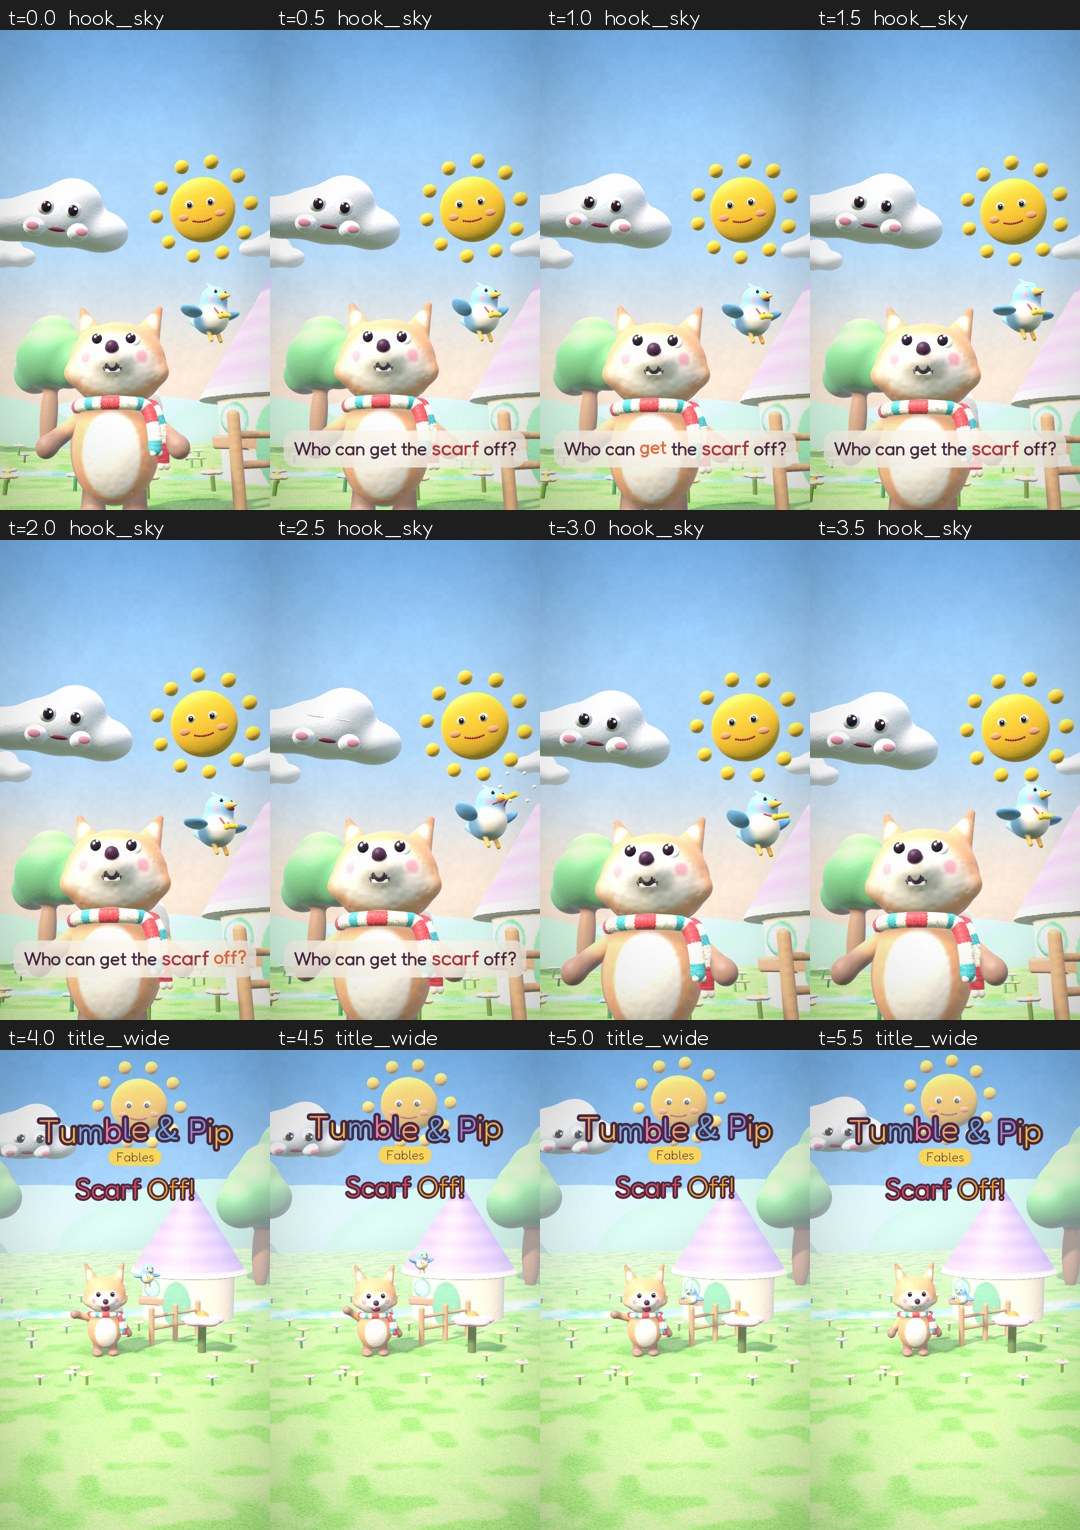
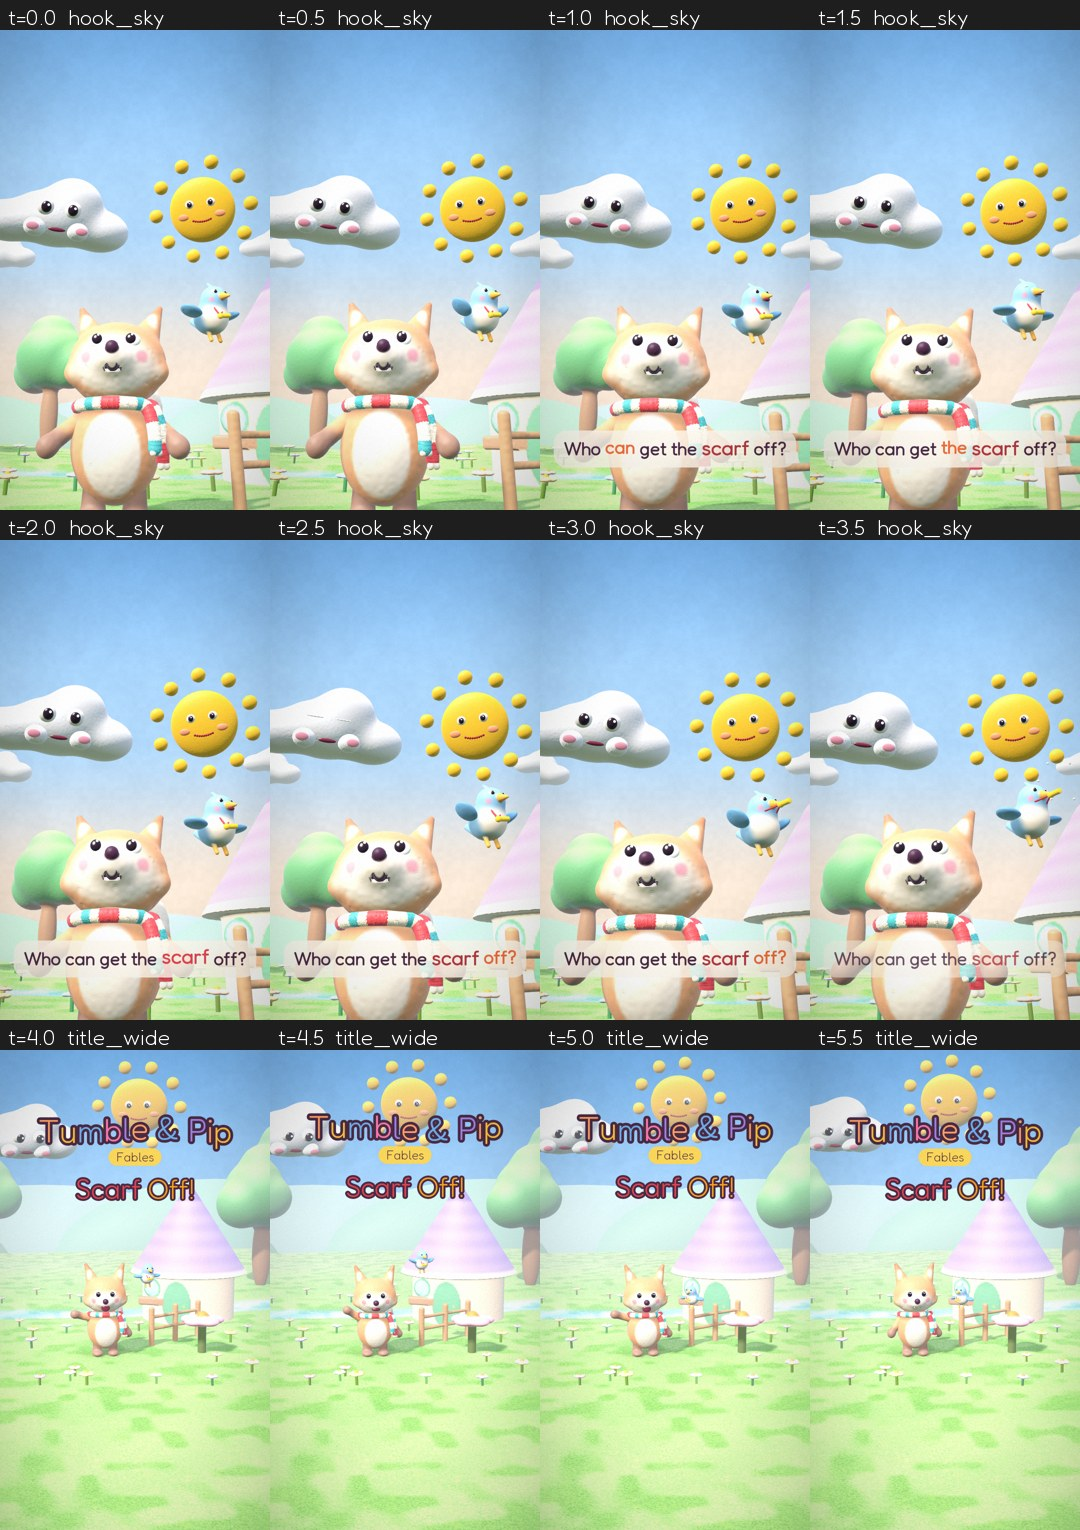
Fable 7: real song timing, Pip insert shot split, sheets for the final review pass
Claude-Session: https://claude.ai/code/session_019tHcGyer8d4WdTM5CTWrTN

diff --git a/batches/01-fables-friendship/fable-07-scarf-off/code/render.py b/batches/01-fables-friendship/fable-07-scarf-off/code/render.py
@@ -478,11 +478,11 @@ def camera(t):
     if name == "snug":
         return fit_cam(np.array([0.05, 1.4, 0]), lerp(-8, -4, e), 4, 0.95, 1.15)
     if name == "wind_puff":
-        return fit_cam(WIND_P + np.array([0, 0.05, 0]), lerp(16, 20, e), -3, lerp(1.6, 1.35, e), lerp(1.5, 1.25, e), fov=34, lift=0.0 if not WIDE else 0.18)
+        return fit_cam(WIND_P + np.array([0, 0.05, 0]), lerp(16, 20, e), -3, lerp(1.6, 1.35, e), lerp(1.5, 1.25, e), fov=34, lift=0.0 if not WIDE else 0.26)
     if name == "hold_tight":                                  # low three-quarter on Tumble holding on
         return fit_cam(np.array([0.45, 1.2, 0.0]), -18, -4, 1.5, 1.35)
     if name == "pip_blown":                                   # insert: Pip is blown from the post onto the flower
-        return fit_cam(np.array([2.0, 1.0, 0.3]), -8, 4, 1.75, 1.6, lift=-0.08 if not WIDE else 0.1)
+        return fit_cam(np.array([2.15, 1.0, 0.3]), -8, 4, 1.75, 1.6, lift=-0.08 if not WIDE else 0.1)
     if name == "spin":                                        # high angle wide
         return fit_cam(np.array([0.6, 0.9, 0.1]), 8, 42, 2.0, 1.7)
     if name == "pip_cling":

diff --git a/batches/01-fables-friendship/fable-07-scarf-off/code/timeline.py b/batches/01-fables-friendship/fable-07-scarf-off/code/timeline.py
@@ -113,8 +113,9 @@ BLOW0 = (word_times("huff", "Problem A") or [_pa[0] + 0.3])[0] - 0.1   # Wind st
 _tight = word_times("tight", "Problem A")
 BLOWN = min((_tight[0] if _tight else _pa[0] + 2.6) + 0.85, _pa[1] - 0.95)  # Pip blown off the post
 CLING = BLOWN + 0.6
-SHOTS[6] = (PA_SPLIT, BLOWN - 0.1, "hold_tight")                 # cut to an insert of Pip's flight as the gust hits
-SHOTS.insert(7, (BLOWN - 0.1, _pa[1], "pip_blown"))
+_PB = min(BLOWN - 0.1, _pa[1] - 1.4)
+SHOTS[6] = (PA_SPLIT, _PB, "hold_tight")                 # cut to an insert of Pip's flight as the gust hits
+SHOTS.insert(7, (_PB, _pa[1], "pip_blown"))
 SPIN0 = (word_times("round", "Problem B") or [_pb[0] + 0.2])[0]
 SPIN1 = min(SPIN0 + 1.7, PB_SPLIT1 - 0.6)
 BLOW1 = PB_SPLIT2 + 0.5                                   # Wind runs out of puff
